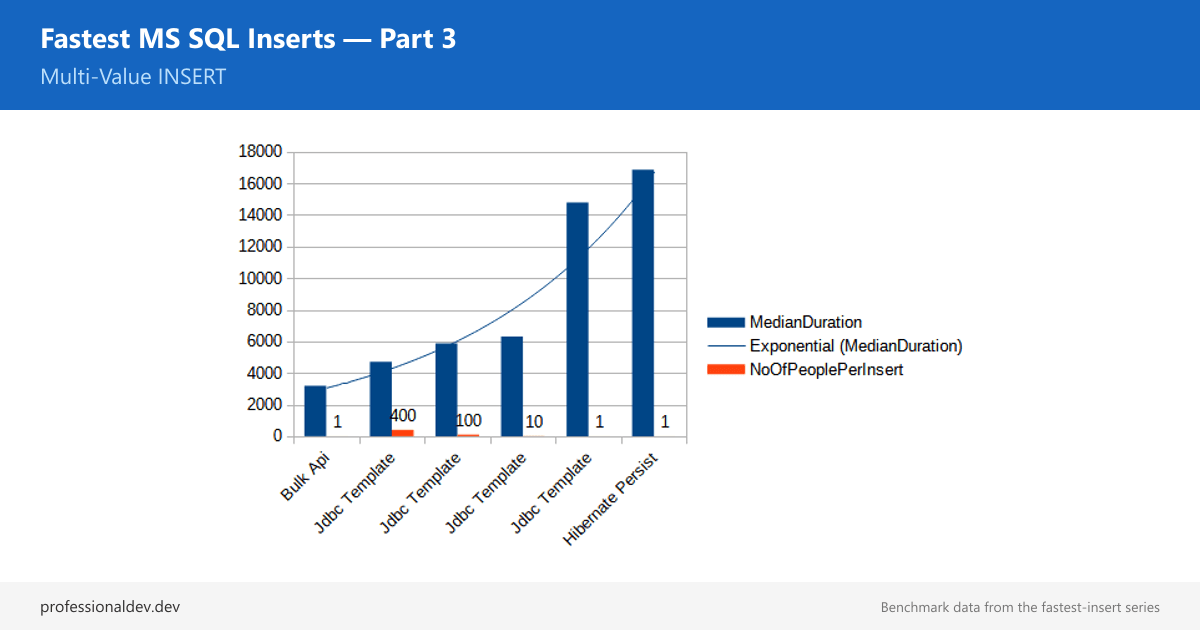
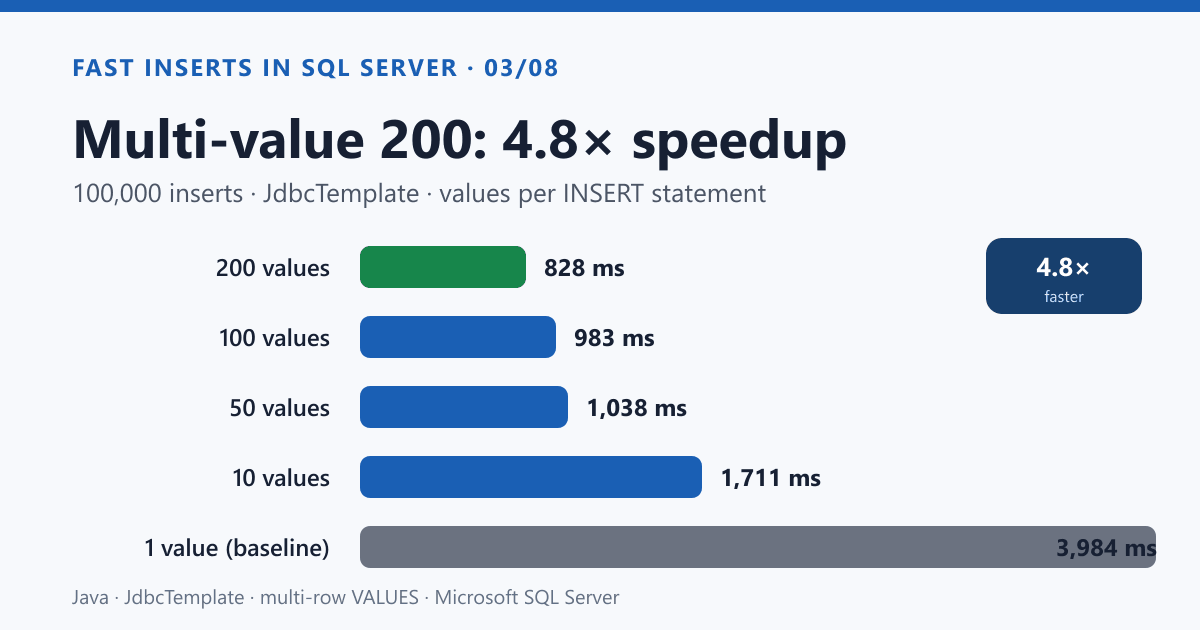
Match Parts 2-7 to series design (Parts 1 & 8 style) + checkmark badge for visited posts
Image overhaul for MS SQL series Parts 2-7:
- Created hand-designed 1200x630 SVG heroes matching the Parts 1 and 8
  template: dark navy heading, series tag "FAST INSERTS IN SQL SERVER
  · N/08", comparison bars (green = winner, blue = good, grey =
  baseline, red/amber in Part 7 for "worse" entries), highlighted
  multiplier callout box, Java/SQL Server footer.
- Parts 2-7 now share the same visual language as the hand-made Parts
  1 and 8 — featureImages in the homepage feed look consistent instead
  of mixing raw benchmark screenshots with Python-generated minimal
  charts.
- Regenerated share-partN.png (16-24 KB each) from the new SVGs.
- featureImageAlt rewritten with the specific numbers each chart tells.

Replaced visited-post dimming (opacity) with a positive "Read" badge:
- Opacity-based read styling made returning readers feel punished;
  checkmark badge in the top-right is clearer, accessible, and signals
  progress positively.
- Styling in assets/sass/_custom.sass; visited.js logic unchanged.

Generated with [Devin](https://devin.ai)

diff --git a/assets/sass/_custom.sass b/assets/sass/_custom.sass
@@ -762,20 +762,27 @@ button.feed_action
 #waline .wl-reaction
   display: none
 
-// visited posts — dimmed until hover (RSS-reader convention)
-.feed_card.is_read .feed_title,
-.feed_card.is_read .feed_til_title
-  color: var(--pale, #888)
+// visited posts — small green "Read" badge in the corner (no opacity dimming;
+// opacity hurts readability for returning users without a clear positive signal).
+// The .is_read class is applied by assets/js/visited.js from localStorage.
+.feed_card.is_read
+  position: relative
 
-.feed_card.is_read .feed_media
-  opacity: 0.55
-
-.feed_card.is_read .feed_excerpt
-  opacity: 0.7
-
-.feed_card.is_read:hover .feed_media,
-.feed_card.is_read:hover .feed_excerpt
-  opacity: 1
+.feed_card.is_read::after
+  content: "✓ Read"
+  position: absolute
+  top: 0.75rem
+  right: 0.75rem
+  background: #17864b
+  color: #ffffff
+  font-size: 0.72rem
+  font-weight: 600
+  letter-spacing: 0.03em
+  padding: 0.22rem 0.55rem
+  border-radius: 1rem
+  box-shadow: 0 2px 4px rgba(0, 0, 0, 0.15)
+  z-index: 2
+  pointer-events: none
 
 // in-feed subscribe card
 .feed_subscribe

diff --git a/content/post/java/mssqlserver/fast_insert_part6/index.md b/content/post/java/mssqlserver/fast_insert_part6/index.md
@@ -4,9 +4,9 @@ date: 2026-10-19
 draft: false
 usePageBundles: true
 description: "100,000 SQL Server inserts in 330 ms by splitting the data across 4 threads with the Bulk API. Thread count sweep, concurrent-reader impact, TABLOCK trade-off."
-featureImage: 'thread_scaling.svg' # Chart: Parallel Bulk API + Parallel JdbcTemplate across 1-16 threads.
-featureImageAlt: 'Line chart showing insert duration vs thread count for Parallel Bulk API and Parallel JdbcTemplate — 4 threads is the sweet spot at 330 ms.'
-shareImage: 'share-part6.png' # Branded 1200x630 social-share card showing the Part 6 thread-scaling chart.
+featureImage: 'fast-insert-part6.svg' # Series-style 1200x630 hero: Parallel Bulk API at 8 threads hits 434 ms, 2.7x faster.
+featureImageAlt: 'Bar chart of Parallel Bulk API insert duration as thread count sweeps from 1 to 16 — 8 threads at 434 ms is 2.7 times faster than single-threaded at 1,155 ms; 16 threads shows diminishing returns at 442 ms.'
+shareImage: 'share-part6.png' # Branded 1200x630 PNG for social crawlers.
 tags: [ "java", "ms sql server", "concurrency" ]
 categories: [ "java", "sql" ]
 series: [ "Fastest Way to Insert Data in MS SQL" ]

diff --git a/content/post/java/mssqlserver/fast_insert_part5/index.md b/content/post/java/mssqlserver/fast_insert_part5/index.md
@@ -4,9 +4,9 @@ date: 2026-10-19
 draft: false
 usePageBundles: true
 description: "Persistable, StatelessSession and useBulkCopyForBatchInsert close 80% of the gap between Hibernate and raw JDBC. Measured on 100,000 SQL Server inserts."
-featureImage: 'multivalue_sweep.svg' # Chart: multi-value objectsPerInsert sweep showing the 200-value sweet spot.
-featureImageAlt: 'Line chart of multi-value INSERT performance as objectsPerInsert ranges from 1 to 400 — the sweet spot is 200 values per statement at 828 ms.'
-shareImage: 'share-part5.png' # Branded 1200x630 social-share card showing the Part 5 sweep chart.
+featureImage: 'fast-insert-part5.svg' # Series-style 1200x630 hero: Hibernate closes 80% of the gap to Bulk API.
+featureImageAlt: 'Bar chart showing four Hibernate configurations converging toward the Bulk API baseline — StatelessSession plus bulkCopy at 1,075 ms versus Bulk API at 492 ms, 3.8 times closer than default Hibernate persist.'
+shareImage: 'share-part5.png' # Branded 1200x630 PNG for social crawlers.
 tags: [ "java", "ms sql server", "hibernate" ]
 categories: [ "java", "sql" ]
 series: [ "Fastest Way to Insert Data in MS SQL" ]

diff --git a/content/post/java/mssqlserver/fast_insert_part2/index.md b/content/post/java/mssqlserver/fast_insert_part2/index.md
@@ -4,9 +4,9 @@ date: 2023-10-21
 draft: false
 usePageBundles: true
 description: "Hibernate vs PreparedStatement vs JdbcTemplate vs SQL Server Bulk API: measured 100,000 inserts across all four — Bulk API wins in 492 ms, Hibernate is slowest."
-featureImage: 'fastInsert2ChartResults.webp' # Chart: insert duration across Hibernate, PreparedStatement, JdbcTemplate, Bulk API.
-featureImageAlt: 'Bar chart comparing 100,000 SQL Server inserts across Hibernate, PreparedStatement, JdbcTemplate and the Bulk API — Bulk API finishes in 492 ms, Hibernate is slowest.'
-shareImage: 'share-part2.png' # Branded 1200x630 social-share card showing the Part 2 chart.
+featureImage: 'fast-insert-part2.svg' # Series-style 1200x630 hero: Bulk API wins at 492ms, 6.1x faster than Hibernate.
+featureImageAlt: 'Bar chart comparing 100,000 SQL Server inserts across four JDBC strategies — Bulk API finishes in 492 ms, 6.1 times faster than Hibernate persist at 3,089 ms.'
+shareImage: 'share-part2.png' # Branded 1200x630 PNG for social crawlers.
 tags: [ "java", "ms sql server" ]
 categories: [ "java", "sql" ]
 series: [ "Fastest Way to Insert Data in MS SQL" ]

diff --git a/content/post/java/mssqlserver/fast_insert_part7/index.md b/content/post/java/mssqlserver/fast_insert_part7/index.md
@@ -4,9 +4,9 @@ date: 2026-10-19
 draft: false
 usePageBundles: true
 description: "5 non-clustered indexes slow a bulk INSERT 11x. Measurements for compression, columnstore, GUID keys, triggers, encryption and more on SQL Server."
-featureImage: 'index_impact.svg' # Chart: insert duration grows 11x as non-clustered index count goes 0 -> 5.
-featureImageAlt: 'Line chart showing SQL Server insert duration against non-clustered index count for Bulk API, JdbcTemplate and Hibernate — 5 indexes make inserts 6-11x slower.'
-shareImage: 'share-part7.png' # Branded 1200x630 social-share card showing the Part 7 index-impact chart.
+featureImage: 'fast-insert-part7.svg' # Series-style 1200x630 hero: 5 non-clustered indexes slow Bulk API 6.7x.
+featureImageAlt: 'Bar chart of Bulk API insert duration against non-clustered index count — 0 indexes finishes in 784 ms, 1 index 1,829 ms, 3 indexes 3,632 ms, 5 indexes 5,290 ms (6.7 times slower).'
+shareImage: 'share-part7.png' # Branded 1200x630 PNG for social crawlers.
 tags: [ "java", "ms sql server", "indexes" ]
 categories: [ "java", "sql" ]
 series: [ "Fastest Way to Insert Data in MS SQL" ]

diff --git a/content/post/java/mssqlserver/fast_insert_part4/index.md b/content/post/java/mssqlserver/fast_insert_part4/index.md
@@ -4,9 +4,9 @@ date: 2024-05-08
 draft: false
 usePageBundles: true
 description: "One connection-string flag (useBulkCopyForBatchInsert=true) makes Hibernate, JdbcTemplate and plain JDBC batched inserts 2-2.5x faster on SQL Server. Measured."
-featureImage: 'jdbcBulkVsBatch.png' # Chart: JDBC batched vs useBulkCopyForBatchInsert=true.
-featureImageAlt: 'Bar chart showing JDBC batched INSERT performance before and after setting useBulkCopyForBatchInsert=true — the connection-string flag gives a 2-2.5x speedup.'
-shareImage: 'share-part4.png' # Branded 1200x630 social-share card showing the Part 4 chart.
+featureImage: 'fast-insert-part4.svg' # Series-style 1200x630 hero: useBulkCopyForBatchInsert flag gives 2.5x speedup.
+featureImageAlt: 'Bar chart showing StatelessSession INSERT duration before and after setting useBulkCopyForBatchInsert=true — the connection-string flag drops 2,650 ms to 1,075 ms, 2.5 times faster.'
+shareImage: 'share-part4.png' # Branded 1200x630 PNG for social crawlers.
 tags: [ "java", "ms sql server" ]
 categories: [ "java", "sql" ]
 series: [ "Fastest Way to Insert Data in MS SQL" ]

diff --git a/content/post/java/mssqlserver/fast_insert_part3/index.md b/content/post/java/mssqlserver/fast_insert_part3/index.md
@@ -4,9 +4,9 @@ date: 2024-02-11
 draft: false
 usePageBundles: true
 description: "Multi-value INSERT (one statement, 200+ rows) is 4-5x faster than single-row batches on SQL Server. Compared against the Bulk API; where it beats, where it doesn't."
-featureImage: 'fastInsert3Results.webp' # Chart: multi-value INSERT at 200+ values per statement.
-featureImageAlt: 'Bar chart showing multi-value INSERT performance on SQL Server — 200 values per statement is 4-5x faster than single-row batching.'
-shareImage: 'share-part3.png' # Branded 1200x630 social-share card showing the Part 3 chart.
+featureImage: 'fast-insert-part3.svg' # Series-style 1200x630 hero: multi-value 200 is 4.8x faster.
+featureImageAlt: 'Bar chart of multi-value INSERT performance as values-per-statement grows from 1 to 200 — 200 values finishes in 828 ms, 4.8 times faster than single-row at 3,984 ms.'
+shareImage: 'share-part3.png' # Branded 1200x630 PNG for social crawlers.
 tags: [ "java", "ms sql server" ]
 categories: [ "java", "sql" ]
 series: [ "Fastest Way to Insert Data in MS SQL" ]
